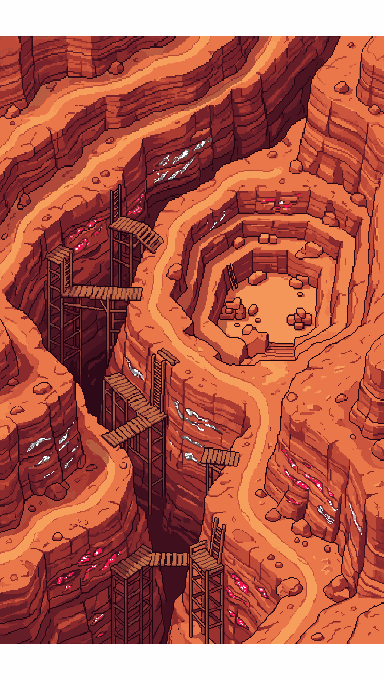
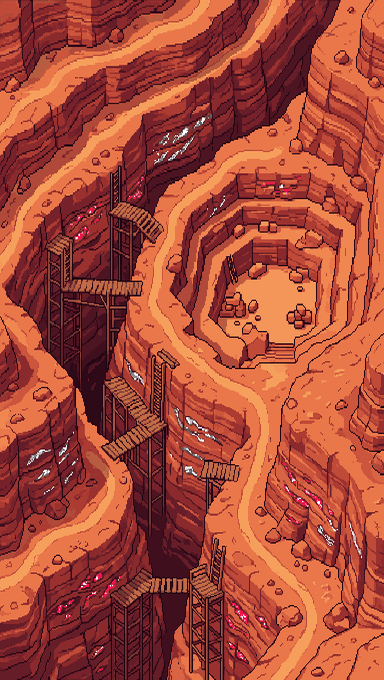
Fix canyon background white bands, add day/night grading, partial monster anims
Three follow-ups from playtest feedback on the mining zone.

White bands top/bottom of red_canyon_bg.png were baked into the create_image_pro
output (~36px each side of 680). Cropped to content and rescaled back to
384x680 with PIL — no PixelLab credits spent, since the fix is purely local.

Day/night grading for the canyon: one background, CSS colour grading on top,
the exact mechanism the Cite's rebuild already settled on (town.ts's
TIME_GRADE) rather than a second generated background — a separately
generated night canyon would put its scaffolding and ore veins in different
places, so no single set of node coordinates could stay correct at both
hours. Deliberately two states (day/night) rather than the Town's four, since
that's all this zone asked for.

The three canyon monsters (crevasse_scorpion, canyon_raider, sandstone_golem)
shipped with portraits only, no idle or attack frames — a real gap from the
previous pass, not a design choice. Partial progress landed here while the
remaining animate_image jobs finish: canyon_raider attack, crevasse_scorpion
attack, and sandstone_golem idle are in; the rest follow in the next commit.
Safe to ship mid-flight since the existing getFrames-stops-at-first-gap
convention already handles a partial frame set without erroring.

Claude-Session: https://claude.ai/code/session_0193FNSEYGabLqnEX1euiQ3V

diff --git a/src/components/gathering/mining/MiningScene.tsx b/src/components/gathering/mining/MiningScene.tsx
@@ -14,6 +14,8 @@ import {
   grantOre,
   nodeGuardian,
   isDaytime,
+  canyonTimeId,
+  CANYON_TIME_GRADE,
   type MiningNodeDef,
 } from "../../../data/mining";
 import { getInventory } from "../../../data/inventory";
@@ -53,6 +55,7 @@ export default function MiningScene({ onClose }: MiningSceneProps) {
   const heroLevel = getInventory().level;
   const state = getMiningState();
   const daytime = isDaytime();
+  const grade = CANYON_TIME_GRADE[canyonTimeId()];
 
   const flash = useCallback((msg: string) => {
     setToast(msg);
@@ -118,7 +121,19 @@ export default function MiningScene({ onClose }: MiningSceneProps) {
         <img src={CANYON_BACKGROUND} alt="" aria-hidden className="pointer-events-none absolute inset-0 h-full w-full scale-110 object-cover opacity-50 blur-2xl" />
 
         <div className="absolute left-1/2 top-0 -translate-x-1/2" style={SCENE_BOX}>
-          <img src={CANYON_BACKGROUND} alt="" className="absolute inset-0 h-full w-full" style={{ imageRendering: "pixelated" }} draggable={false} />
+          <img
+            src={CANYON_BACKGROUND}
+            alt=""
+            className="absolute inset-0 h-full w-full transition-[filter] duration-1000"
+            style={{ imageRendering: "pixelated", filter: grade.filter }}
+            draggable={false}
+          />
+          {/* Colour wash on top of the graded image — one background, day/night expressed purely
+              in CSS, same mechanism as the Cité's TIME_GRADE rather than a second generation. */}
+          <div
+            className="pointer-events-none absolute inset-0 transition-opacity duration-1000"
+            style={{ background: grade.wash }}
+          />
 
           <MiningAmbience daytime={daytime} />
 
@@ -185,7 +200,7 @@ export default function MiningScene({ onClose }: MiningSceneProps) {
             Réparer · {PICKAXE_REPAIR_COST} Écus
           </button>
           <p className="mt-2 text-[9px] leading-snug text-white/40">
-            {daytime ? "Le soleil cogne — la chaleur ondule au sol." : "Nuit dans le canyon."}
+            {grade.caption}
           </p>
         </div>
 

diff --git a/src/data/mining.ts b/src/data/mining.ts
@@ -259,3 +259,36 @@ export function isDaytime(now: Date = new Date()): boolean {
   const h = now.getHours();
   return h >= 6 && h < 21;
 }
+
+/**
+ * Day/night grading for the canyon backdrop — ONE image, CSS colour grading on top, the exact
+ * mechanism the Cité's rebuild settled on (`town.ts`'s `TIME_GRADE`) rather than a second generated
+ * background: a separately-generated night canyon would put its scaffolding and ore veins in
+ * different places, so no single set of node coordinates could stay correct at both hours.
+ * Deliberately two states, not the Town's four (dawn/day/dusk/night) — the canyon only asked for
+ * "day or night", so a third grading axis would be unused complexity.
+ */
+export type CanyonTimeId = "day" | "night";
+
+export interface CanyonTimeGrade {
+  filter: string;
+  wash: string;
+  caption: string;
+}
+
+export const CANYON_TIME_GRADE: Record<CanyonTimeId, CanyonTimeGrade> = {
+  day: {
+    filter: "brightness(1.15) saturate(1.08) contrast(1.02)",
+    wash: "linear-gradient(180deg, rgba(255,214,150,0.16) 0%, rgba(255,235,200,0.05) 100%)",
+    caption: "Le soleil cogne — la chaleur ondule au sol.",
+  },
+  night: {
+    filter: "brightness(0.55) saturate(0.75) contrast(1.08)",
+    wash: "linear-gradient(180deg, rgba(20,15,45,0.55) 0%, rgba(10,8,30,0.62) 100%)",
+    caption: "Nuit dans le canyon.",
+  },
+};
+
+export function canyonTimeId(now: Date = new Date()): CanyonTimeId {
+  return isDaytime(now) ? "day" : "night";
+}
